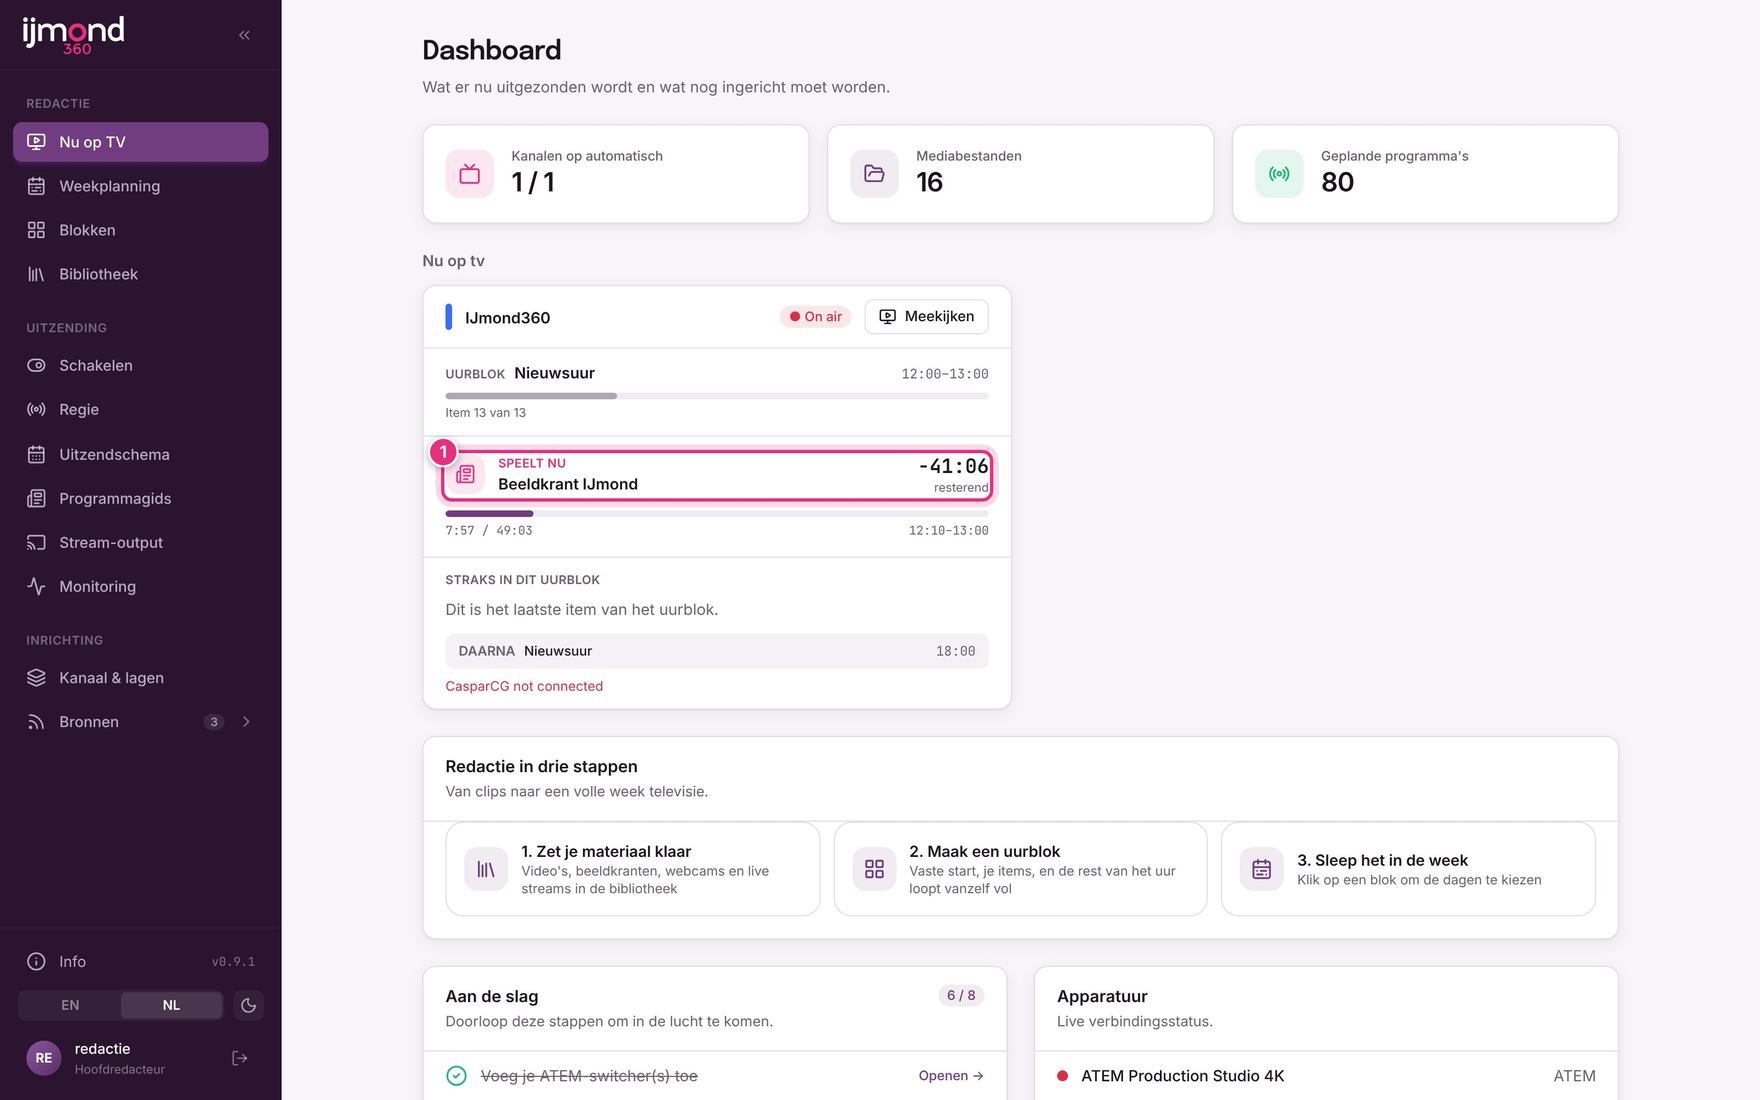
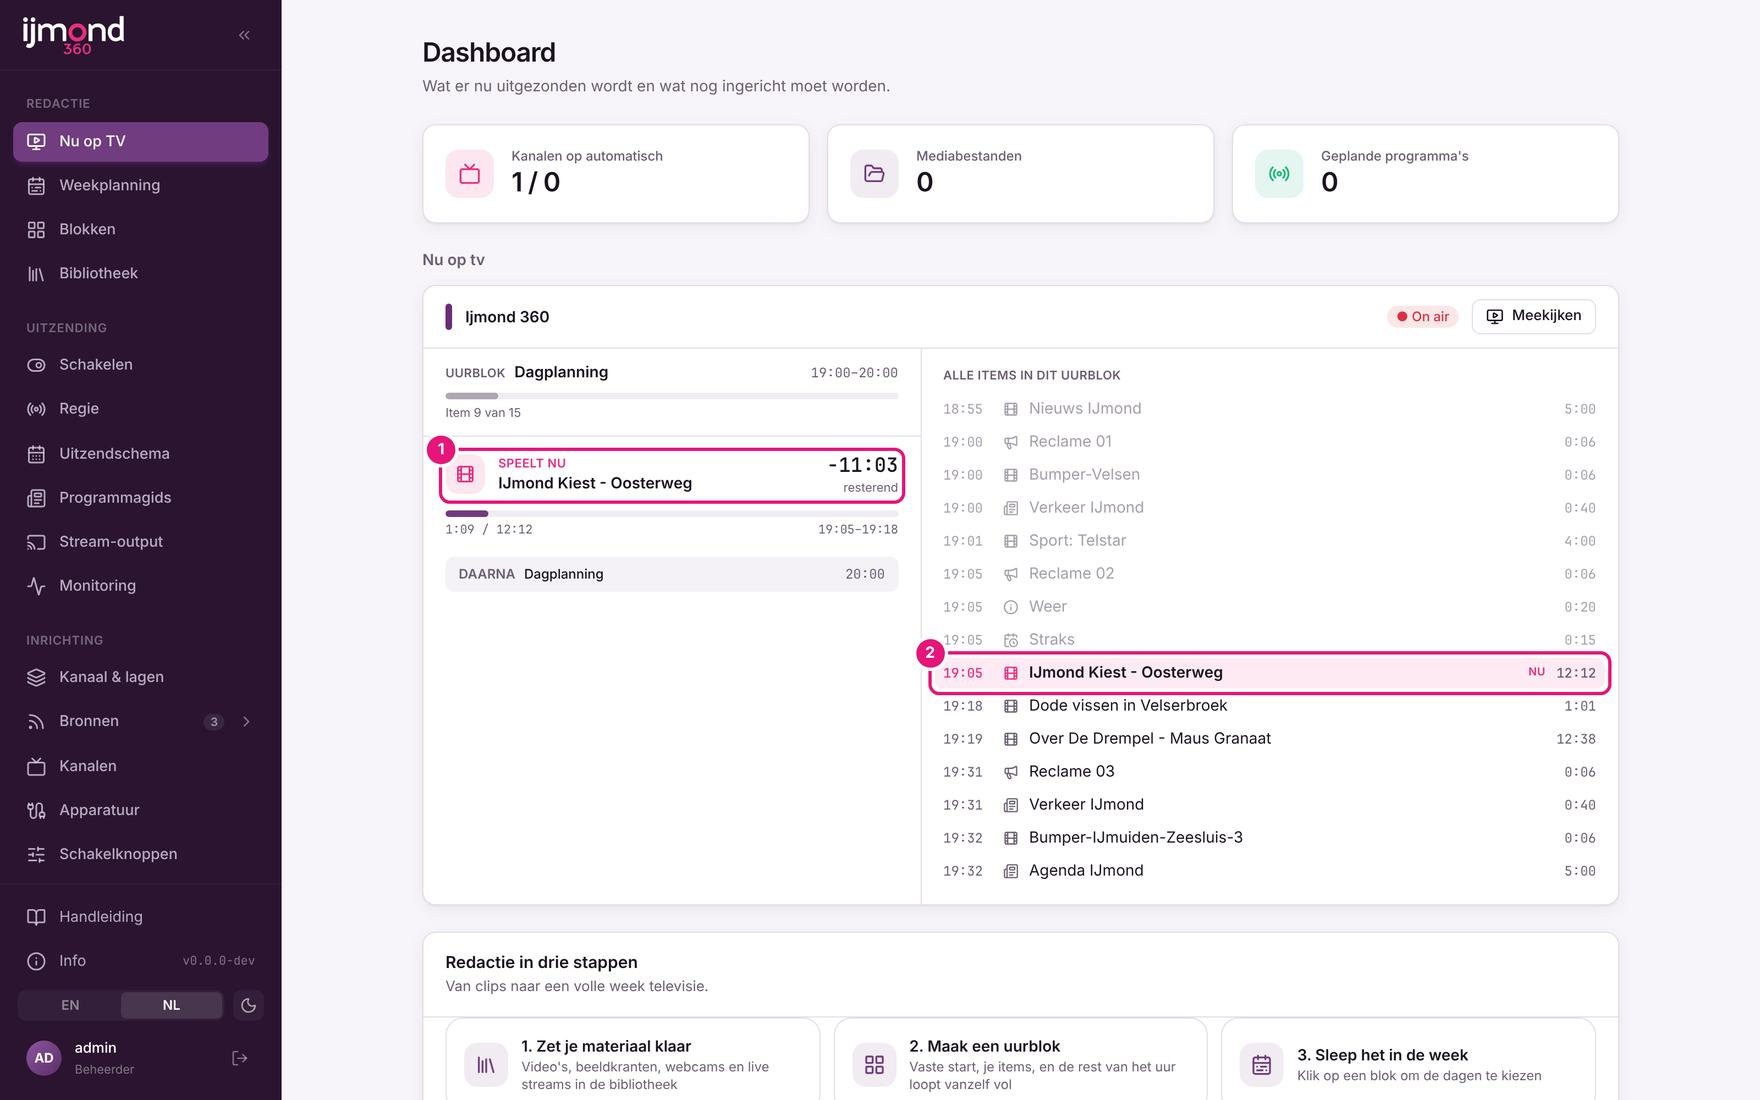
Now on TV: full width, list every item of the hour block
Dashboard card spans the full width; on wide screens the current item sits
left and the whole hour block (played greyed, current highlighted, rest
below) right, stacking on phones. Drops the 5-item cap and '+ N more'.
Changelog entry and guide chapter updated.

Claude-Session: https://claude.ai/code/session_01CnJtxGtcc9oNToRGsFCLQ7

diff --git a/apps/management/web/components/NowOnTv.tsx b/apps/management/web/components/NowOnTv.tsx
@@ -72,9 +72,11 @@ export function NowOnTv({ c, now, preview, onPreviewSaved }: { c: NowChannel; no
   const label = (e: NowEv) => (e.type === "filler" ? t("mgmt.control.filler") : e.title || (e.type === "lineup" ? t("mgmt.lineup.item") : e.programTitle));
 
   const p = c.program;
-  const nextItems = p ? p.items.slice(p.index + 1) : c.upcoming;
-  const shown = nextItems.slice(0, 5);
-  const more = nextItems.length - shown.length;
+  // Every item of the hour block on air (played, playing, coming), or what is scheduled next when no block is running.
+  const rows: { e: NowEv; state: "done" | "now" | "next" }[] = p
+    ? p.items.map((e, i) => ({ e, state: i < p.index ? "done" : i === p.index ? "now" : "next" }))
+    : c.upcoming.map((e) => ({ e, state: "next" }));
+  const lastInBlock = !!p && p.index >= p.items.length - 1;
   const after = p?.next ?? null;
 
   let curBox: ReactNode = <p className="text-sm text-muted">{t("mgmt.control.nothing")}</p>;
@@ -130,57 +132,71 @@ export function NowOnTv({ c, now, preview, onPreviewSaved }: { c: NowChannel; no
 
       {showPreview && <PreviewPane channelId={c.channel.id} preview={preview} onClose={() => setShowPreview(false)} onSaved={onPreviewSaved} />}
 
-      {p && (
-        <div className="border-b border-line px-5 py-3">
-          <div className="flex items-baseline gap-2">
-            <span className="text-[11px] font-semibold tracking-wide text-muted uppercase">{t("mgmt.now.block")}</span>
-            <span className="min-w-0 flex-1 truncate text-sm font-semibold" title={p.title}>
-              {p.title}
-            </span>
-            <span className="font-mono text-xs text-muted tabular-nums">
-              {fmtTime(p.startAt)}–{fmtTime(p.endAt)}
-            </span>
-          </div>
-          <Bar value={(now - ms(p.startAt)) / Math.max(1, ms(p.endAt) - ms(p.startAt))} className="mt-2 h-1" fill="bg-muted/50" />
-          <p className="mt-1 text-[11px] text-muted">{t("mgmt.now.itemOf", { n: p.index + 1, total: p.items.length })}</p>
-        </div>
-      )}
-
       {c.pending && <PendingBar channelId={c.channel.id} from={c.pending.from} className="rounded-none border-b border-line px-5" />}
 
-      <div className="px-5 py-4">{curBox}</div>
+      <div className="grid lg:grid-cols-[minmax(0,5fr)_minmax(0,7fr)]">
+        <div className="min-w-0 border-line lg:border-r">
+          {p && (
+            <div className="border-b border-line px-5 py-3">
+              <div className="flex items-baseline gap-2">
+                <span className="text-[11px] font-semibold tracking-wide text-muted uppercase">{t("mgmt.now.block")}</span>
+                <span className="min-w-0 flex-1 truncate text-sm font-semibold" title={p.title}>
+                  {p.title}
+                </span>
+                <span className="font-mono text-xs text-muted tabular-nums">
+                  {fmtTime(p.startAt)}–{fmtTime(p.endAt)}
+                </span>
+              </div>
+              <Bar value={(now - ms(p.startAt)) / Math.max(1, ms(p.endAt) - ms(p.startAt))} className="mt-2 h-1" fill="bg-muted/50" />
+              <p className="mt-1 text-[11px] text-muted">{t("mgmt.now.itemOf", { n: p.index + 1, total: p.items.length })}</p>
+            </div>
+          )}
 
-      <div className="border-t border-line px-5 py-3">
-        <p className="mb-2 text-[11px] font-semibold tracking-wide text-muted uppercase">{p ? t("mgmt.now.nextInBlock") : t("mgmt.control.next")}</p>
-        {shown.length ? (
-          <ol className="space-y-1.5">
-            {shown.map((e) => {
-              const Icon = typeIcon(e);
-              return (
-                <li key={e.key} className="flex items-center gap-2.5 text-sm">
-                  <span className="w-11 shrink-0 font-mono text-xs text-muted tabular-nums">{fmtTime(e.startAt)}</span>
-                  <Icon className={cx("size-3.5 shrink-0", e.type === "filler" ? "text-line" : "text-muted")} />
-                  <span className={cx("min-w-0 flex-1 truncate", e.type === "filler" && "text-muted")} title={label(e)}>
-                    {label(e)}
-                  </span>
-                  {e.warning && <Badge tone="warn">!</Badge>}
-                  <span className="shrink-0 font-mono text-xs text-muted tabular-nums">{fmtDuration(ms(e.endAt) - ms(e.startAt))}</span>
-                </li>
-              );
-            })}
-          </ol>
-        ) : (
-          <p className="text-sm text-muted">{p ? t("mgmt.now.lastInBlock") : t("mgmt.control.emptySchedule")}</p>
-        )}
-        {more > 0 && <p className="mt-1.5 text-xs text-muted">{t("mgmt.now.more", { count: more })}</p>}
-        {after && (
-          <p className="mt-3 flex items-center gap-2 rounded-md bg-surface-2/70 px-3 py-2 text-xs">
-            <span className="font-semibold text-muted uppercase">{t("mgmt.now.after")}</span>
-            <span className="min-w-0 flex-1 truncate font-medium">{after.title}</span>
-            <span className="font-mono text-muted tabular-nums">{fmtTime(after.startAt)}</span>
-          </p>
-        )}
-        {c.lastError && <p className="mt-2 truncate text-xs text-danger">{c.lastError}</p>}
+          <div className="px-5 py-4">{curBox}</div>
+
+          {(after || c.lastError) && (
+            <div className="px-5 pb-4">
+              {after && (
+                <p className="flex items-center gap-2 rounded-md bg-surface-2/70 px-3 py-2 text-xs">
+                  <span className="font-semibold text-muted uppercase">{t("mgmt.now.after")}</span>
+                  <span className="min-w-0 flex-1 truncate font-medium">{after.title}</span>
+                  <span className="font-mono text-muted tabular-nums">{fmtTime(after.startAt)}</span>
+                </p>
+              )}
+              {c.lastError && <p className="mt-2 truncate text-xs text-danger">{c.lastError}</p>}
+            </div>
+          )}
+        </div>
+
+        <div className="min-w-0 border-t border-line px-5 py-3 lg:border-t-0 lg:py-4">
+          <p className="mb-2 text-[11px] font-semibold tracking-wide text-muted uppercase">{p ? t("mgmt.now.allInBlock") : t("mgmt.control.next")}</p>
+          {rows.length ? (
+            <ol className="-mx-2 space-y-0.5">
+              {rows.map(({ e, state }) => {
+                const Icon = typeIcon(e);
+                return (
+                  <li
+                    key={e.key}
+                    aria-current={state === "now" ? "true" : undefined}
+                    className={cx("flex items-center gap-2.5 rounded-md px-2 py-1 text-sm", state === "now" && "bg-onair/10 font-semibold", state === "done" && "text-muted opacity-60")}
+                  >
+                    <span className={cx("w-11 shrink-0 font-mono text-xs tabular-nums", state === "now" ? "text-onair" : "text-muted")}>{fmtTime(e.startAt)}</span>
+                    <Icon className={cx("size-3.5 shrink-0", state === "now" ? "text-onair" : e.type === "filler" ? "text-line" : "text-muted")} />
+                    <span className={cx("min-w-0 flex-1 truncate", e.type === "filler" && "text-muted")} title={label(e)}>
+                      {label(e)}
+                    </span>
+                    {state === "now" && <span className="shrink-0 text-[10px] font-semibold tracking-wide text-onair uppercase">{t("mgmt.now.nowShort")}</span>}
+                    {e.warning && <Badge tone="warn">!</Badge>}
+                    <span className="shrink-0 font-mono text-xs text-muted tabular-nums">{fmtDuration(ms(e.endAt) - ms(e.startAt))}</span>
+                  </li>
+                );
+              })}
+            </ol>
+          ) : (
+            <p className="text-sm text-muted">{t("mgmt.control.emptySchedule")}</p>
+          )}
+          {lastInBlock && <p className="mt-2 text-xs text-muted">{t("mgmt.now.lastInBlock")}</p>}
+        </div>
       </div>
     </Card>
   );

diff --git a/apps/management/web/public/help/index.html b/apps/management/web/public/help/index.html
@@ -294,8 +294,8 @@ week: [
    b: `<p>Klik in het paneel op ${ui('Alleen …')} met de datum. Je ziet wat er die dag in dat uur speelt.</p><ul><li>${ui('Blok bewerken')} past het blok aan, dus voor álle dagen waarop het staat.</li><li>${ui('Eigen rundown voor deze datum')} maakt een losse versie voor alleen die dag. Sleep er clips in vanuit de mediabibliotheek.</li></ul>` },
  { t: 'Wijzigingen in het uur dat nu loopt', img: ['36-nu-toepassen', 'De oranje melding Wijzigingen aan het uur dat nu loopt met de knop Nu toepassen.'],
    b: `<p>Pas je iets aan in het uur dat nú op zender is, dan verschijnt er een oranje melding ${m(1)}. De wijziging gaat dan pas in bij het volgende hele uur, zodat het programma dat nu speelt niet opnieuw begint.</p><p>Moet het toch meteen? Klik op ${ui('Nu toepassen')} ${m(2)}. Het lopende uur wordt dan direct opnieuw opgebouwd.</p>` },
- { t: 'Controleer wat er op zender is', img: ['01-nu-op-tv', 'Nu op TV met het uurblok dat speelt en wat er hierna komt.'],
-   b: `<p>Klik op ${ui('Nu op TV')}. Je ziet per kanaal welk uurblok loopt, welk item ${m(1)} nu speelt, hoeveel tijd er nog is en wat er hierna komt.</p><p>Het volledige overzicht per dag staat bij ${ui('Uitzendschema')}; wat de kijker in de gids ziet bij ${ui('Programmagids')}.</p>` },
+ { t: 'Controleer wat er op zender is', img: ['01-nu-op-tv', 'Nu op TV over de volle breedte: links het item dat nu speelt, rechts alle items van het uurblok.'],
+   b: `<p>Klik op ${ui('Nu op TV')}. Je ziet per kanaal welk uurblok loopt, welk item ${m(1)} nu speelt, hoeveel tijd er nog is en wat er hierna komt.</p><p>Rechts staan ${m(2)} alle items van het uurblok onder elkaar: wat al gespeeld is staat grijs, het item dat nu speelt is roze gemarkeerd met ${ui('Nu')}, daaronder komt de rest van het uur. Op een telefoon staat de lijst onder het item dat nu speelt.</p><p>Het volledige overzicht per dag staat bij ${ui('Uitzendschema')}; wat de kijker in de gids ziet bij ${ui('Programmagids')}.</p>` },
 ],
 live: [
  { t: 'Live plannen', img: ['40-live-plannen', 'Het venster Live-uitzending plannen met bron, naam, dag, begin en einde.'],

diff --git a/apps/management/web/pages/Dashboard.tsx b/apps/management/web/pages/Dashboard.tsx
@@ -74,7 +74,7 @@ export function Dashboard() {
       {!!live?.channels.length && (
         <section className="mb-6">
           <h2 className="mb-3 text-sm font-semibold text-muted">{t("mgmt.now.title")}</h2>
-          <div className="grid items-start gap-4 lg:grid-cols-2">
+          <div className="grid gap-4">
             {live.channels.map((c) => (
               <NowOnTv key={c.channel.id} c={c} now={now} preview={previews.data?.previews.find((p) => p.channelId === c.channel.id)} onPreviewSaved={() => void previews.reload()} />
             ))}
